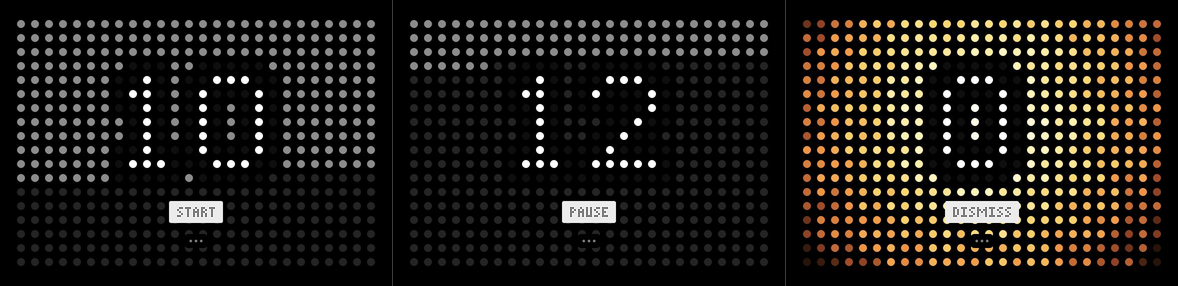
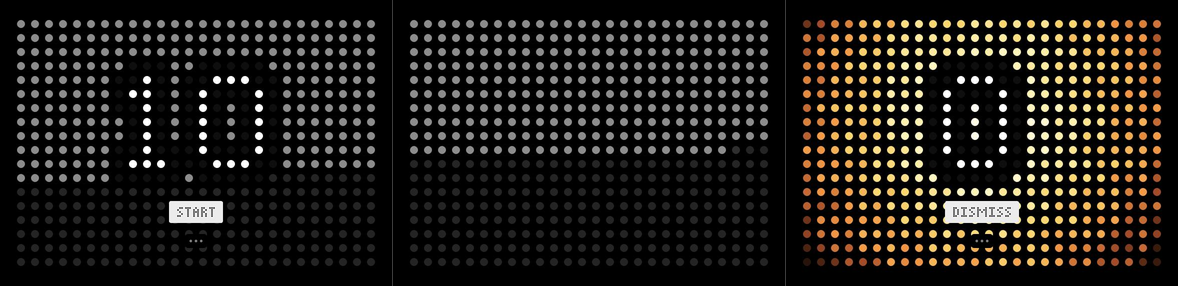
Field: full field while running, numbers only when set or paused
As in Untime: the whole field lights up when the countdown starts,
whatever the time, and only the dots show while it runs. A click
anywhere pauses and brings back the numbers and the resume and reset
buttons. The dot numbers are drawn smaller.

Changed region(s): [[0.3362, 0.1958, 0.6723, 0.5874], [0.4584, 0.6993, 0.5501, 0.7832], [0.489, 0.8112, 0.5195, 0.8671]]

diff --git a/desktop-apps/field-timer/mac/main.swift b/desktop-apps/field-timer/mac/main.swift
@@ -118,7 +118,6 @@ final class FieldView: NSView, NSViewToolTipOwner {
     var banked: TimeInterval = 0       // time already counted before the current run
     var runStart: TimeInterval = 0     // uptime when the current run began
     var doneAt: TimeInterval = 0
-    var startLit: Double = 0           // lit dots when the countdown began
     var dragging = false
     var pressed: String?
     var hover: String?
@@ -162,7 +161,6 @@ final class FieldView: NSView, NSViewToolTipOwner {
         gx0 = (W - CGFloat(cols - 1) * Self.cell) / 2
         gy0 = (H - CGFloat(rows - 1) * Self.cell) / 2
         px = max(2, min(6, (min(W, H) / 150).rounded()))
-        if state == .running || state == .paused { startLit = litFor(duration) }
         layoutButtons()
         updateToolTips()
         needsDisplay = true
@@ -176,15 +174,15 @@ final class FieldView: NSView, NSViewToolTipOwner {
     func layoutButtons() {
         let W = bounds.width, cy = (bounds.height * 0.74).rounded()
         var b: [Button] = []
+        if state == .running { buttons = []; return }   // only the dots while counting down; any click pauses
         switch state {
         case .setup: b.append(card("start", "START", W / 2, cy))
-        case .running: b.append(card("pause", "PAUSE", W / 2, cy))
         case .paused:
             let a = card("resume", "RESUME", 0, cy), r = card("reset", "RESET", 0, cy), gap = 4 * px
             let x = (W / 2 - (a.rect.width + gap + r.rect.width) / 2).rounded()
             b.append(Button(id: a.id, label: a.label, rect: NSRect(x: x, y: a.rect.minY, width: a.rect.width, height: a.rect.height)))
             b.append(Button(id: r.id, label: r.label, rect: NSRect(x: x + a.rect.width + gap, y: r.rect.minY, width: r.rect.width, height: r.rect.height)))
-        case .done: b.append(card("dismiss", "DISMISS", W / 2, cy))
+        case .done, .running: b.append(card("dismiss", "DISMISS", W / 2, cy))
         }
         let mw = 11 * px, mh = 7 * px
         b.append(Button(id: "menu", label: "", rect: NSRect(x: (W / 2 - mw / 2).rounded(), y: cy + 11 * px, width: mw, height: mh)))
@@ -246,7 +244,6 @@ final class FieldView: NSView, NSViewToolTipOwner {
 
     func start() {
         duration = TimeInterval(cfg.seconds)
-        startLit = litFor(duration)
         banked = 0
         runStart = now
         beepsLeft = 0
@@ -505,14 +502,14 @@ final class FieldView: NSView, NSViewToolTipOwner {
             stamp(&over, Self.display(Double(cfg.seconds)))
         case .running, .paused:
             let remaining = max(0, duration - elapsed)
-            let lit = startLit * remaining / max(0.001, duration)
+            let lit = Double(total) * remaining / max(0.001, duration)   // the whole field at the start, whatever the time
             let full = min(total, Int(lit.rounded(.down)))
             for i in 0..<full { slot[i] = paused ? 2 : 1 }
             if full < total && lit > Double(full) {
                 let step = min(Skin.partialSteps - 1, Int((lit - Double(full)) * Double(Skin.partialSteps)))
                 slot[full] = UInt8((paused ? Skin.pPartialPaused : Skin.pPartial) + step)
             }
-            stamp(&over, Self.display(remaining))
+            if paused { stamp(&over, Self.display(remaining)) }
         case .done:
             // The glow: warm colours spreading from the centre, breathing, with a little sparkle
             let still = NSWorkspace.shared.accessibilityDisplayShouldReduceMotion
@@ -563,7 +560,7 @@ final class FieldView: NSView, NSViewToolTipOwner {
     func stamp(_ over: inout [UInt8], _ d: (text: String, unit: String)) {
         let digits = Skin.textWidth(d.text, Skin.big)
         var s = max(1, min((cols - 4) / max(1, digits), Int(Double(rows) * 0.5) / 7,
-                           Int(min(Double(cols) / 34, Double(rows) / 20).rounded())))
+                           Int(min(Double(cols) / 64, Double(rows) / 40).rounded())))
         if digits * s > cols - 2 { return }
         // Keep clear of the buttons: drop the unit first, then make the numbers smaller
         let buttonTop = bounds.height * 0.74 - 5.5 * px

diff --git a/tools/teaching/field-timer.html b/tools/teaching/field-timer.html
@@ -142,7 +142,7 @@
       <p class="small"><a href="https://perceptor.nl/everything/untime.html" target="_blank" rel="noopener">Untime on perceptor.nl</a></p>
     </div>
     <p>Drag down on the field to set the time (or scroll, or use ↑ ↓), then press <strong>start</strong>.
-       Click the field or press Space to pause. Esc resets.</p>
+       While it runs only the dots show: click anywhere or press Space to pause and see the time. Esc resets.</p>
     <p class="small">Free software, provided “as is”, without warranty of any kind. Don't rely on it where an
        interrupted countdown could cause harm or loss. This page collects no personal data.</p>
     <button type="button" class="close" id="aboutClose">CLOSE</button>
@@ -202,7 +202,6 @@
   var selectedSeconds = load('field.seconds', 600);
   var sound = load('field.sound', 1) === 1;
   var durationMs = 0, startTime = 0, pausedAt = 0, pausedAccum = 0, doneAt = 0;
-  var startLit = 0;                    // lit dots when the countdown began
   var W = 0, H = 0, cols = 1, rows = 1, total = 1, gx0 = 0, gy0 = 0, px = 3;
   var buttons = [];                    // {id, x, y, w, h, label}
   var pressed = null, hover = null, dragging = false;
@@ -281,7 +280,6 @@
     gx0 = (W - (cols - 1) * CELL) / 2;
     gy0 = (H - (rows - 1) * CELL) / 2;
     px = Math.max(2, Math.min(6, Math.round(Math.min(W, H) / 150)));
-    if (state === 'running' || state === 'paused') startLit = litForSeconds(durationMs / 1000);
     draw();
   }
 
@@ -300,8 +298,8 @@
   function layoutButtons() {
     var cy = Math.round(H * 0.74);
     buttons = [];
+    if (state === 'running') return;   // only the dots while counting down; any click pauses
     if (state === 'setup') buttons.push(card('start', 'START', W / 2, cy));
-    else if (state === 'running') buttons.push(card('pause', 'PAUSE', W / 2, cy));
     else if (state === 'paused') {
       var a = card('resume', 'RESUME', 0, cy), b = card('reset', 'RESET', 0, cy), gap = 4 * px;
       a.x = Math.round(W / 2 - (a.w + gap + b.w) / 2); b.x = a.x + a.w + gap;
@@ -325,7 +323,7 @@
     var digits = 0;
     for (var i = 0; i < d.text.length; i++) digits += BIG[d.text[i]][0].length + (i ? 1 : 0);
     var unitW = textWidth(d.unit);
-    var s = Math.max(1, Math.min(Math.floor((cols - 4) / digits), Math.floor((rows * 0.5) / 7), Math.round(Math.min(cols / 34, rows / 20))));
+    var s = Math.max(1, Math.min(Math.floor((cols - 4) / digits), Math.floor((rows * 0.5) / 7), Math.round(Math.min(cols / 64, rows / 40))));
     if (digits * s > cols - 2) return;
     // Keep clear of the buttons: drop the unit first, then make the numbers smaller
     var limit = Math.min(rows - 1, Math.floor((H * 0.74 - 5.5 * px - gy0 - CELL) / CELL) + 1);
@@ -393,14 +391,14 @@
       stampText(over, display(selectedSeconds));
     } else if (state === 'running' || paused) {
       var remainingMs = Math.max(0, durationMs - elapsedMs());
-      var lit = startLit * remainingMs / durationMs;
+      var lit = total * remainingMs / durationMs;   // the whole field at the start, whatever the time
       var full = Math.floor(lit);
       for (i = 0; i < full && i < total; i++) slot[i] = paused ? 2 : 1;
       if (full < total && lit > full) {
         var step = Math.min(PARTIAL_STEPS - 1, Math.floor((lit - full) * PARTIAL_STEPS));
         slot[full] = (paused ? P_PARTIAL_PAUSED : P_PARTIAL) + step;
       }
-      stampText(over, display(remainingMs / 1000));
+      if (paused) stampText(over, display(remainingMs / 1000));
     } else {
       // The glow: warm colours spreading from the centre, breathing, with a little sparkle
       var t = reduceMotion ? 3 : (performance.now() - doneAt) / 1000;
@@ -508,7 +506,6 @@
 
   function start() {
     durationMs = selectedSeconds * 1000;
-    startLit = litForSeconds(selectedSeconds);
     startTime = performance.now();
     pausedAccum = 0;
     chimesLeft = 0;

diff --git a/tools/teaching/field_timer_download.html b/tools/teaching/field_timer_download.html
@@ -190,7 +190,7 @@
 
   <div class="preview">
     <img src="field_timer_preview.png" width="1178" height="286"
-         alt="Three views of the dot field: setting 10 minutes, with gray dots filling the top of the field and a big 10 drawn in white dots; counting down, with most dots already dark; and time's up, with the field glowing white, yellow and orange around a 0.">
+         alt="Three views of the dot field: setting 10 minutes, with gray dots filling the top of the field and a big 10 drawn in white dots; counting down, with the whole field lit at the start and the bottom rows already dark and no numbers; and time's up, with the field glowing white, yellow and orange around a 0.">
     <p>Setting the time, counting down, and time's up, shown here in the web version. The desktop app draws the same field in a window you can resize or make full screen.</p>
   </div>
 
@@ -200,8 +200,8 @@
       <h3>What it does</h3>
       <ul>
         <li>Drag down on the field (or scroll) to set the time, from 1 second to 6 hours. The gray dots fill the field from the top, and big dot numbers show the time.</li>
-        <li>Press <strong>start</strong>: the gray dots go dark one by one from the end, so the class sees time passing at a glance.</li>
-        <li>Click the field (or <strong>pause</strong>) to pause, then <strong>resume</strong> or <strong>reset</strong>. When the time is up the field glows, with an optional sound.</li>
+        <li>Press <strong>start</strong>: the whole field lights up, whatever the time, and the dots go dark one by one from the end. Only the dots show while it counts down, so the class sees time passing at a glance.</li>
+        <li>Click anywhere to pause: the numbers and the <strong>resume</strong> and <strong>reset</strong> buttons come back. When the time is up the field glows, with an optional sound.</li>
         <li>The <strong>···</strong> button (or a right-click) has <strong>full screen</strong> for a projector, <strong>always on top</strong>, the sound option and About.</li>
         <li>Keyboard: <kbd>Space</kbd> start/pause, <kbd>Esc</kbd> cancel, <kbd>↑</kbd>/<kbd>↓</kbd> change the time, <kbd>F11</kbd> (Windows) or <kbd>⌃⌘F</kbd> (Mac) full screen.</li>
       </ul>

diff --git a/desktop-apps/field-timer/windows/Program.cs b/desktop-apps/field-timer/windows/Program.cs
@@ -241,7 +241,7 @@ namespace FieldTimer
         State state = State.Setup;
         readonly Stopwatch sw = new Stopwatch();         // runs while counting down, stops while paused
         readonly Stopwatch doneClock = new Stopwatch();
-        double durationMs, startLit;
+        double durationMs;
         string lastFrame = "";
         int doneFrames;
         bool dragging;
@@ -407,7 +407,6 @@ namespace FieldTimer
             gx0 = (W - (cols - 1) * cell) / 2f;
             gy0 = (H - (rows - 1) * cell) / 2f;
             px = k * Math.Max(2, Math.Min(6, (float)Math.Round(Math.Min(W, H) / k / 150f)));
-            if (state == State.Running || state == State.Paused) startLit = LitFor(durationMs / 1000.0);
             lastFrame = "";
             LayoutButtons();
         }
@@ -422,10 +421,10 @@ namespace FieldTimer
         {
             float W = ClientSize.Width, cy = (float)Math.Round(ClientSize.Height * 0.74);
             var b = new List<Btn>();
+            if (state == State.Running) { buttons = b; return; }   // only the dots while counting down; any click pauses
             switch (state)
             {
                 case State.Setup: b.Add(Card("start", "START", W / 2, cy)); break;
-                case State.Running: b.Add(Card("pause", "PAUSE", W / 2, cy)); break;
                 case State.Paused:
                     var a = Card("resume", "RESUME", 0, cy);
                     var r = Card("reset", "RESET", 0, cy);
@@ -524,7 +523,6 @@ namespace FieldTimer
         void Start()
         {
             durationMs = cfg.Seconds * 1000.0;
-            startLit = LitFor(cfg.Seconds);
             sw.Reset();
             sw.Start();
             beepsLeft = 0;
@@ -580,12 +578,10 @@ namespace FieldTimer
         // What a countdown frame shows; the window repaints only when this changes
         string FrameKey()
         {
-            double lit = startLit * RemainingMs / Math.Max(1, durationMs);
+            double lit = total * RemainingMs / Math.Max(1, durationMs);
             int full = (int)Math.Floor(lit);
             int step = (int)Math.Floor((lit - full) * Skin.PartialSteps);
-            string text, unit;
-            Display(RemainingMs / 1000.0, out text, out unit);
-            return full + "/" + step + "/" + text + unit;
+            return full + "/" + step;
         }
 
         void OnTick(object sender, EventArgs e)
@@ -765,7 +761,7 @@ namespace FieldTimer
             else if (state == State.Running || paused)
             {
                 double remaining = RemainingMs;
-                double lit = startLit * remaining / Math.Max(1, durationMs);
+                double lit = total * remaining / Math.Max(1, durationMs);   // the whole field at the start, whatever the time
                 int full = (int)Math.Min(total, Math.Floor(lit));
                 for (int i = 0; i < full; i++) slot[i] = (byte)(paused ? 2 : 1);
                 if (full < total && lit > full)
@@ -773,9 +769,12 @@ namespace FieldTimer
                     int step = Math.Min(Skin.PartialSteps - 1, (int)Math.Floor((lit - full) * Skin.PartialSteps));
                     slot[full] = (byte)((paused ? Skin.PPartialPaused : Skin.PPartial) + step);
                 }
-                string text, unit;
-                Display(remaining / 1000.0, out text, out unit);
-                Stamp(over, text, unit);
+                if (paused)
+                {
+                    string text, unit;
+                    Display(remaining / 1000.0, out text, out unit);
+                    Stamp(over, text, unit);
+                }
             }
             else
             {
@@ -828,7 +827,7 @@ namespace FieldTimer
         {
             int digits = Skin.TextWidth(text, Skin.Big);
             int s = Math.Max(1, Math.Min(Math.Min((cols - 4) / Math.Max(1, digits), (int)(rows * 0.5) / 7),
-                                         (int)Math.Round(Math.Min(cols / 34.0, rows / 20.0))));
+                                         (int)Math.Round(Math.Min(cols / 64.0, rows / 40.0))));
             if (digits * s > cols - 2) return;
             // Keep clear of the buttons: drop the unit first, then make the numbers smaller
             float cell = CELL * k, buttonTop = ClientSize.Height * 0.74f - 5.5f * px;

diff --git a/desktop-apps/README.md b/desktop-apps/README.md
@@ -75,14 +75,14 @@ and the numbers drawn with dots and the glow at the end come from their app. Tha
 ([Untime on perceptor.nl](https://perceptor.nl/everything/untime.html))
 
 - Drag down on the field to set the time, from 1 second to 6 hours. Gray dots fill the field from the top and big dot numbers show the time.
-- Press **start**. The gray dots go dark one by one from the end, and the field glows when the time is up.
-- Click the field to pause, then **resume** or **reset**.
+- Press **start**. The whole field lights up, whatever the time, and the dots go dark one by one from the end. Only the dots show while it counts down, and the field glows when the time is up.
+- Click anywhere to pause: the numbers and the **resume** and **reset** buttons come back.
 - Full screen for a projector, optional "always on top" and optional sound at the end, all in the **···** menu.
 
 | Action | Mouse | Keyboard |
 |---|---|---|
 | Set the time | Drag down on the field for more time, or scroll over it | ↑ / ↓ |
-| Start / pause / resume | **start**, **pause** and **resume** buttons, or click the field | Space or Enter |
+| Start / pause / resume | **start**, then click anywhere to pause, then **resume** | Space or Enter |
 | Reset | **reset** (while paused) or **dismiss** (at the end) | Esc |
 | Full screen | **···** → Full screen | F11 on Windows, ⌃⌘F on Mac (Esc leaves) |
 | Always on top, sound, About | **···** button, or right-click the window | — |
